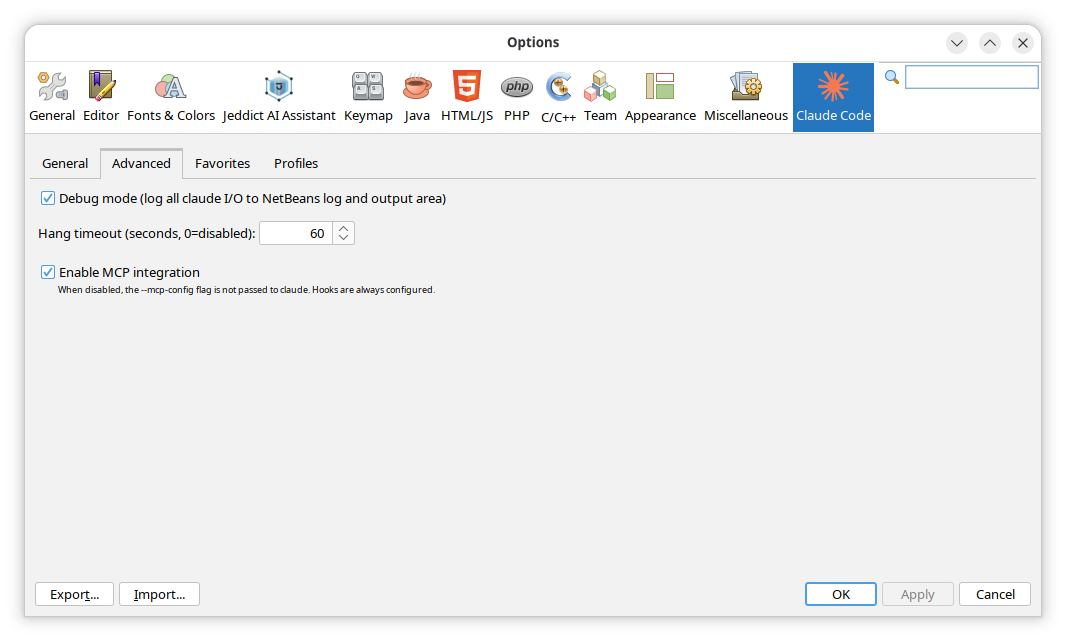
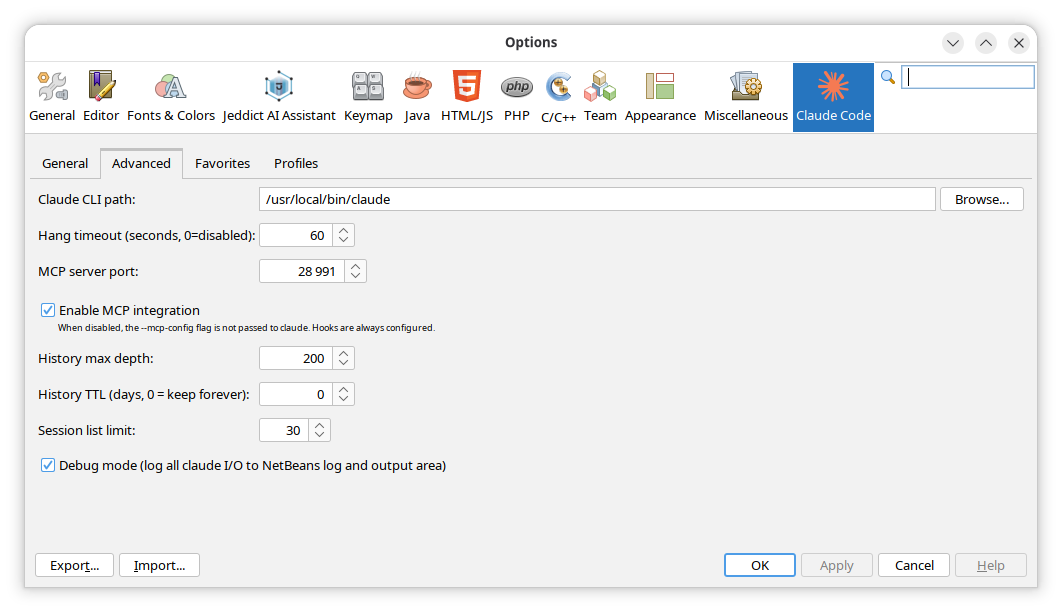
Reorganized General and Advanced settings tabs (#80)
Moved technical settings (hang timeout, MCP port, Enable MCP
integration, session list limit, debug mode) to the Advanced tab. Fixed
MCP description label wrapping by stretching it to full tab width.

diff --git a/src/main/java/io/github/nbclaudecodegui/settings/ClaudeCodeOptionsPanel.java b/src/main/java/io/github/nbclaudecodegui/settings/ClaudeCodeOptionsPanel.java
@@ -137,45 +137,28 @@ public final class ClaudeCodeOptionsPanel extends JPanel {
         JPanel form = new JPanel(new GridBagLayout());
         int row = 0;
 
-        // --- executable path ---
-        form.add(new JLabel("Claude CLI path:"), gbc(0, row, false));
-        executablePathField = new JTextField(30);
-        executablePathField.setToolTipText("Leave empty to detect 'claude' from PATH");
-        form.add(executablePathField, gbcFill(1, row));
-        JButton browseButton = new JButton("Browse\u2026");
-        browseButton.addActionListener(e -> {
-            JFileChooser chooser = new JFileChooser();
-            chooser.setFileSelectionMode(JFileChooser.FILES_ONLY);
-            if (chooser.showOpenDialog(this) == JFileChooser.APPROVE_OPTION) {
-                executablePathField.setText(
-                        chooser.getSelectedFile().getAbsolutePath());
-            }
-        });
-        form.add(browseButton, gbc(2, row, false));
+        // --- context-menu session mode ---
+        startNewSessionCheck = new javax.swing.JCheckBox("Start new session when opening with Claude");
+        GridBagConstraints cmGbc = new GridBagConstraints();
+        cmGbc.gridx = 0; cmGbc.gridy = row;
+        cmGbc.gridwidth = 3;
+        cmGbc.anchor = GridBagConstraints.WEST;
+        cmGbc.insets = new Insets(8, 8, 4, 8);
+        form.add(startNewSessionCheck, cmGbc);
         row++;
 
-        // --- MCP port ---
-        form.add(new JLabel("MCP server port:"), gbc(0, row, false));
-        mcpPortSpinner = new JSpinner(new SpinnerNumberModel(
-                ClaudeCodePreferences.DEFAULT_MCP_PORT, 1024, 65535, 1));
-        mcpPortSpinner.setToolTipText("Port for the NetBeans MCP SSE server (restart required)");
-        form.add(mcpPortSpinner, gbc(1, row, false));
-        row++;
-
-        // --- history max depth ---
-        form.add(new JLabel("History max depth:"), gbc(0, row, false));
-        historyMaxDepthSpinner = new JSpinner(new SpinnerNumberModel(
-                ClaudeCodePreferences.DEFAULT_HISTORY_MAX_DEPTH, 1, 2000, 10));
-        historyMaxDepthSpinner.setToolTipText("Maximum number of history entries to keep per project");
-        form.add(historyMaxDepthSpinner, gbc(1, row, false));
-        row++;
-
-        // --- history TTL ---
-        form.add(new JLabel("History TTL (days, 0 = keep forever):"), gbc(0, row, false));
-        historyTtlDaysSpinner = new JSpinner(new SpinnerNumberModel(
-                ClaudeCodePreferences.DEFAULT_HISTORY_TTL_DAYS, 0, 3650, 1));
-        historyTtlDaysSpinner.setToolTipText("Delete history entries older than this many days (0 = keep forever)");
-        form.add(historyTtlDaysSpinner, gbc(1, row, false));
+        // --- session tab dock position ---
+        form.add(new JLabel("Session tab dock position:"), gbc(0, row, false));
+        dockModeCombo = new javax.swing.JComboBox<>(
+                DockMode.labels(ClaudeCodePreferences.DEFAULT_SESSION_DOCK_MODE));
+        dockModeCombo.setToolTipText("Where to dock the Claude Code session tab when opening it");
+        form.add(dockModeCombo, gbc(1, row, false));
+        GridBagConstraints hSpacer = new GridBagConstraints();
+        hSpacer.gridx = 2; hSpacer.gridy = row;
+        hSpacer.weightx = 1.0;
+        hSpacer.fill = GridBagConstraints.HORIZONTAL;
+        hSpacer.insets = new Insets(0, 0, 0, 8);
+        form.add(new JLabel(""), hSpacer);
         row++;
 
         // --- send key ---
@@ -204,32 +187,6 @@ public final class ClaudeCodeOptionsPanel extends JPanel {
             sendRadios.get(val).addActionListener(e -> syncExclusion(val, true));
             newlineRadios.get(val).addActionListener(e -> syncExclusion(val, false));
         }
-
-        // --- context-menu session mode ---
-        startNewSessionCheck = new javax.swing.JCheckBox("Start new session when opening with Claude");
-        GridBagConstraints cmGbc = new GridBagConstraints();
-        cmGbc.gridx = 0; cmGbc.gridy = row;
-        cmGbc.gridwidth = 3;
-        cmGbc.anchor = GridBagConstraints.WEST;
-        cmGbc.insets = new Insets(4, 8, 4, 8);
-        form.add(startNewSessionCheck, cmGbc);
-        row++;
-
-        // --- session list limit ---
-        form.add(new JLabel("Session list limit:"), gbc(0, row, false));
-        sessionListLimitSpinner = new JSpinner(new SpinnerNumberModel(
-                ClaudeCodePreferences.DEFAULT_SESSION_LIST_LIMIT, 1, 500, 5));
-        sessionListLimitSpinner.setToolTipText("Maximum number of sessions shown in the session list");
-        form.add(sessionListLimitSpinner, gbc(1, row, false));
-        row++;
-
-        // --- session tab dock position ---
-        form.add(new JLabel("Session tab dock position:"), gbc(0, row, false));
-        dockModeCombo = new javax.swing.JComboBox<>(
-                DockMode.labels(ClaudeCodePreferences.DEFAULT_SESSION_DOCK_MODE));
-        dockModeCombo.setToolTipText("Where to dock the Claude Code session tab when opening it");
-        form.add(dockModeCombo, gbc(1, row, false));
-        row++;
 
         // --- diff in session ---
         diffInSessionCheck = new javax.swing.JCheckBox("Open file diff in a separate tab");
@@ -298,14 +255,21 @@ public final class ClaudeCodeOptionsPanel extends JPanel {
         JPanel form = new JPanel(new GridBagLayout());
         int row = 0;
 
-        // --- debug mode ---
-        debugCheckBox = new javax.swing.JCheckBox("Debug mode (log all claude I/O to NetBeans log and output area)");
-        GridBagConstraints dbgGbc = new GridBagConstraints();
-        dbgGbc.gridx = 0; dbgGbc.gridy = row;
-        dbgGbc.gridwidth = 2;
-        dbgGbc.anchor = GridBagConstraints.WEST;
-        dbgGbc.insets = new Insets(8, 8, 4, 8);
-        form.add(debugCheckBox, dbgGbc);
+        // --- executable path ---
+        form.add(new JLabel("Claude CLI path:"), gbc(0, row, false));
+        executablePathField = new JTextField(30);
+        executablePathField.setToolTipText("Leave empty to detect 'claude' from PATH");
+        form.add(executablePathField, gbcFill(1, row));
+        JButton browseButton = new JButton("Browse\u2026");
+        browseButton.addActionListener(e -> {
+            JFileChooser chooser = new JFileChooser();
+            chooser.setFileSelectionMode(JFileChooser.FILES_ONLY);
+            if (chooser.showOpenDialog(this) == JFileChooser.APPROVE_OPTION) {
+                executablePathField.setText(
+                        chooser.getSelectedFile().getAbsolutePath());
+            }
+        });
+        form.add(browseButton, gbc(2, row, false));
         row++;
 
         // --- hang timeout ---
@@ -316,6 +280,14 @@ public final class ClaudeCodeOptionsPanel extends JPanel {
         GridBagConstraints hangSpinnerGbc = gbc(1, row, false);
         hangSpinnerGbc.weightx = 1.0;
         form.add(hangTimeoutSpinner, hangSpinnerGbc);
+        row++;
+
+        // --- MCP port ---
+        form.add(new JLabel("MCP server port:"), gbc(0, row, false));
+        mcpPortSpinner = new JSpinner(new SpinnerNumberModel(
+                ClaudeCodePreferences.DEFAULT_MCP_PORT, 1024, 65535, 1));
+        mcpPortSpinner.setToolTipText("Port for the NetBeans MCP SSE server (restart required)");
+        form.add(mcpPortSpinner, gbc(1, row, false));
         row++;
 
         // --- MCP enabled ---
@@ -331,16 +303,52 @@ public final class ClaudeCodeOptionsPanel extends JPanel {
         JLabel mcpDesc = new JLabel("<html><small>When disabled, the --mcp-config flag is not passed to claude. Hooks are always configured.</small></html>");
         GridBagConstraints mcpDescGbc = new GridBagConstraints();
         mcpDescGbc.gridx = 0; mcpDescGbc.gridy = row;
-        mcpDescGbc.gridwidth = 2;
+        mcpDescGbc.gridwidth = 3;
+        mcpDescGbc.fill = GridBagConstraints.HORIZONTAL;
+        mcpDescGbc.weightx = 1.0;
         mcpDescGbc.anchor = GridBagConstraints.WEST;
         mcpDescGbc.insets = new Insets(0, 28, 4, 8);
         form.add(mcpDesc, mcpDescGbc);
         row++;
 
+        // --- history max depth ---
+        form.add(new JLabel("History max depth:"), gbc(0, row, false));
+        historyMaxDepthSpinner = new JSpinner(new SpinnerNumberModel(
+                ClaudeCodePreferences.DEFAULT_HISTORY_MAX_DEPTH, 1, 2000, 10));
+        historyMaxDepthSpinner.setToolTipText("Maximum number of history entries to keep per project");
+        form.add(historyMaxDepthSpinner, gbc(1, row, false));
+        row++;
+
+        // --- history TTL ---
+        form.add(new JLabel("History TTL (days, 0 = keep forever):"), gbc(0, row, false));
+        historyTtlDaysSpinner = new JSpinner(new SpinnerNumberModel(
+                ClaudeCodePreferences.DEFAULT_HISTORY_TTL_DAYS, 0, 3650, 1));
+        historyTtlDaysSpinner.setToolTipText("Delete history entries older than this many days (0 = keep forever)");
+        form.add(historyTtlDaysSpinner, gbc(1, row, false));
+        row++;
+
+        // --- session list limit ---
+        form.add(new JLabel("Session list limit:"), gbc(0, row, false));
+        sessionListLimitSpinner = new JSpinner(new SpinnerNumberModel(
+                ClaudeCodePreferences.DEFAULT_SESSION_LIST_LIMIT, 1, 500, 5));
+        sessionListLimitSpinner.setToolTipText("Maximum number of sessions shown in the session list");
+        form.add(sessionListLimitSpinner, gbc(1, row, false));
+        row++;
+
+        // --- debug mode ---
+        debugCheckBox = new javax.swing.JCheckBox("Debug mode (log all claude I/O to NetBeans log and output area)");
+        GridBagConstraints dbgGbc = new GridBagConstraints();
+        dbgGbc.gridx = 0; dbgGbc.gridy = row;
+        dbgGbc.gridwidth = 2;
+        dbgGbc.anchor = GridBagConstraints.WEST;
+        dbgGbc.insets = new Insets(8, 8, 4, 8);
+        form.add(debugCheckBox, dbgGbc);
+        row++;
+
         // spacer
         GridBagConstraints spacer = new GridBagConstraints();
         spacer.gridx = 0; spacer.gridy = row;
-        spacer.gridwidth = 2; spacer.weighty = 1.0;
+        spacer.gridwidth = 3; spacer.weighty = 1.0;
         spacer.fill = GridBagConstraints.VERTICAL;
         form.add(new JPanel(), spacer);
 

diff --git a/docs/user-manual.md b/docs/user-manual.md
@@ -337,15 +337,10 @@ Open **Tools → Options → Claude Code** in NetBeans.
 
 | Setting | Default | Description |
 |---------|---------|-------------|
-| Claude CLI path | (empty) | Absolute path to the `claude` executable. Leave empty to use the system `PATH`. |
-| MCP server port | 28991 | Port for the internal MCP SSE server. Change only if 28991 conflicts. Requires IDE restart. |
-| History max depth | 200 | Maximum number of history entries kept per working directory. |
-| History TTL (days) | 0 | Number of days after which history entries expire. 0 = keep forever. |
+| Start new session when opening with Claude | Off (Continue last) | Checked → always start a **New session** when opening with the project context menu or when NetBeans restores a closed session tab on restart. Unchecked → **Continue last**. |
+| Session tab dock position | Editor area | Where the Claude Code session tab is docked when first opened. Choices: Editor area, Right side, Left side top, Left side bottom, Bottom dock. |
 | Send prompt key | Ctrl+Enter | Key combination that sends the prompt from the input area. |
 | Insert newline key | Enter | Key combination that inserts a newline in the input area. The send and newline keys are configured independently but cannot be set to the same value. |
-| Start new session when opening with Claude | Off (Continue last) | Checked → always start a **New session** when opening with the project context menu or when NetBeans restores a closed session tab on restart. Unchecked → **Continue last**. |
-| Session list limit | 30 | Maximum number of past sessions shown in the session selector table. |
-| Session tab dock position | Editor area | Where the Claude Code session tab is docked when first opened. Choices: Editor area, Right side, Left side top, Left side bottom, Bottom dock. |
 | Open file diff in a separate tab | Off | Opens the diff panel in a new IDE tab instead of embedding it in the session tab. |
 | File diff tab dock position | Editor area | Where the File Diff tab is docked when opened as a separate tab. Enabled only when "Open file diff in a separate tab" is checked. |
 | Show markdown preview for .md files in diff | On | Shows a rendered markdown preview alongside the raw diff for `.md` files. |
@@ -358,9 +353,14 @@ Open **Tools → Options → Claude Code** in NetBeans.
 
 | Setting | Default | Description |
 |---------|---------|-------------|
-| Debug mode | Off | Enables verbose logging of all Claude I/O to the NetBeans log file and the Output window. |
+| Claude CLI path | (empty) | Absolute path to the `claude` executable. Leave empty to use the system `PATH`. |
 | Hang timeout (seconds) | 60 | Kill the process if no PTY output is received within this many seconds after launch. Set to 0 to disable. |
+| MCP server port | 28991 | Port for the internal MCP SSE server. Change only if 28991 conflicts. Requires IDE restart. |
 | Enable MCP integration | On | When unchecked, the `--mcp-config` flag is not passed to `claude`. Hooks (PreToolUse) are always configured regardless of this setting. Disable only if MCP causes issues. |
+| History max depth | 200 | Maximum number of history entries kept per working directory. |
+| History TTL (days) | 0 | Number of days after which history entries expire. 0 = keep forever. |
+| Session list limit | 30 | Maximum number of past sessions shown in the session selector table. |
+| Debug mode | Off | Enables verbose logging of all Claude I/O to the NetBeans log file and the Output window. |
 
 ### Favorites tab
 
@@ -671,7 +671,7 @@ As you move the cursor or change the selection in any open editor, the plugin au
 
 If Claude says a tool is unavailable (e.g. "I don't have access to `getWorkspaceFolders`"):
 
-1. Check that no other application is using the MCP server port (**Tools → Options → Claude Code → General → MCP server port**, default: 28991). Change the port if needed and restart the IDE.
+1. Check that no other application is using the MCP server port (**Tools → Options → Claude Code → Advanced → MCP server port**, default: 28991). Change the port if needed and restart the IDE.
 2. Enable **Debug mode** (**Tools → Options → Claude Code → Advanced**) and check the log file (`~/.netbeans/<version>/var/log/messages.log`) for `MCP SSE server started on port`.
 
 ---
@@ -691,7 +691,7 @@ For example: `~/.netbeans/28/var/log/messages.log`
 
 | Symptom | Likely cause | Fix |
 |---------|-------------|-----|
-| Session tab does not open | `claude` not found on PATH | Set the full path in **Tools → Options → Claude Code → General → Claude CLI path** |
+| Session tab does not open | `claude` not found on PATH | Set the full path in **Tools → Options → Claude Code → Advanced → Claude CLI path** |
 | Diff panel shows but Accept/Decline have no effect | Claude timed out waiting for the hook response (600 s limit) | Respond to the diff panel within ~9 minutes; if this happens regularly, check for blocking processes |
 | Claude asked a question but the Choice Menu panel did not appear | The plugin did not recognise the prompt format | Switch to the terminal area and answer directly by typing |
 | Choice Menu appeared but Claude did not ask anything (false trigger) | The plugin mis-detected a numbered list as a menu | Dismiss the panel with **Esc** or ignore it; Claude will continue on its own |

diff --git a/CHANGELOG.md b/CHANGELOG.md
@@ -1,3 +1,4 @@
+- Reorganized General and Advanced settings tabs: moved technical settings (hang timeout, MCP port, Enable MCP integration, session list limit, debug mode) to Advanced
 - Fixed prompt area being collapsible to zero height by dragging the divider
 - Fixed terminal scrolling to the beginning and locking when a choice/confirmation menu appears (https://github.com/nbclaudecodegui/NetbeansClaudeCodeGui/issues/22)
 - Added a setting to control whether the choice menu grabs keyboard focus (https://github.com/nbclaudecodegui/NetbeansClaudeCodeGui/issues/20)
